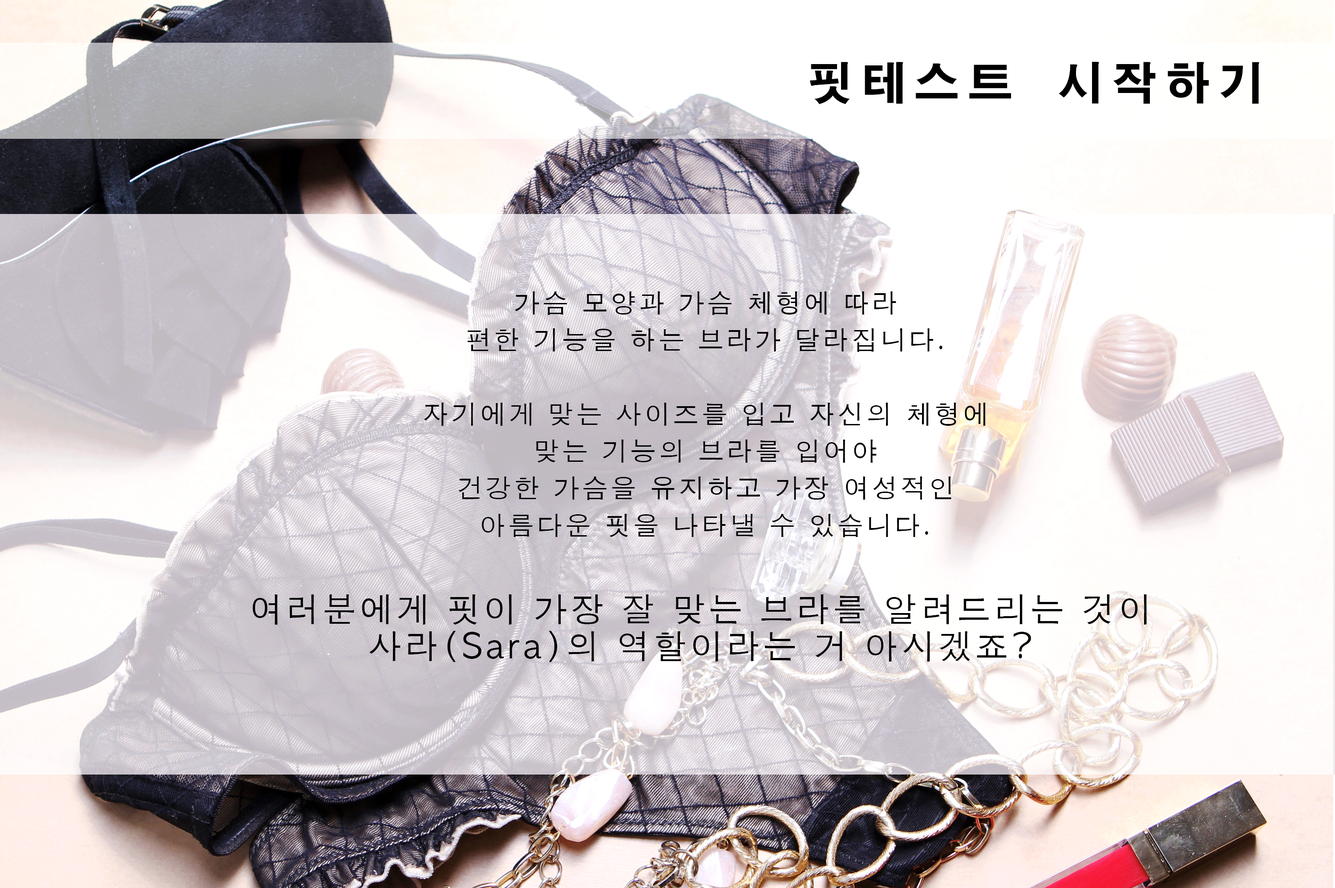
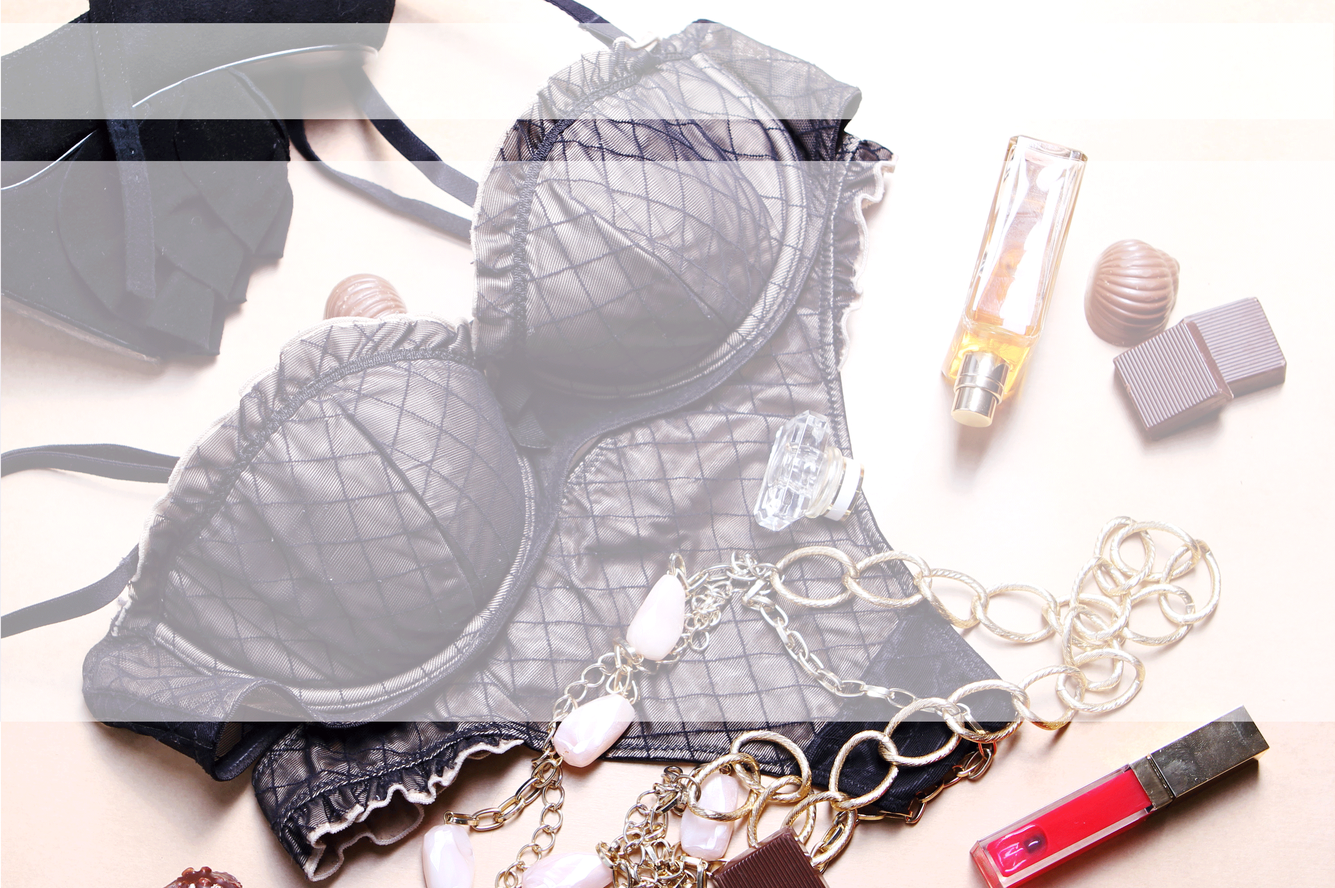
rever

diff --git a/index-backup.html b/index-backup.html
@@ -329,24 +329,41 @@
     </aside>
      <!-- Header -->
       <header id="top" class="header1">
-          <div class="text-vertical-center">
+          <div class="text-vertical-center1">
+             <h3>
+아름다운 몸매를 연출하고 싶으신가요?
+<br>
+<br>
+당신의 사이즈와 체형을 파악하여,<br>
+미스매치의 위험이 없는 브라를 제공하는<br>
+사라스핏(Sara’s Fit) 만의 차별화된 서비스!<br><br>
+
+단순히 몸에 맞는 사이즈를 넘어,<br>
+당신이 가장 편안할 수 있는, <br>
+당신의 핏이 가장 아름다울 수 있는(Fit),<br>
+그로 인해 당신의 “고급스러움”이 돋보일 수 있도록(Luxury) <br>
+아름다운 몸매를 연출해 드립니다.
+             </h3>
+
          </div>
      </header>
+
+    <br>
+
+
      <!-- Header -->
       <header id="top" class="header2">
-          <div class="text-vertical-center">
+          <div class="text-vertical-center1">
+             <h3>
+가슴 모양과 가슴 체형에 따라<br>편한 기능을 하는 브라가 달라집니다.<br><br>
+
+자기에게 맞는 사이즈를 입고<br>자신의 체형에 맞는 기능의 브라를 입어야<br>
+건강한 가슴을 유지하고 가장 여성적인<br>아름다운 핏을 나타낼 수 있습니다. <br><br>
+
+여러분에게 핏이 가장 잘 맞는 브라를 알려드리는 것이 <br>사라(Sara)의 역할이라는 거 아시겠죠?
+             </h3>
          </div>
      </header>
-  <!-- Call to Action -->
-    <aside class="call-to-action bg-primary">
-        <div class="container">
-            <div class="row">
-                <div class="col-lg-12 text-center">
-                    <h3>사라스핏 고객센터: 카카오톡 - mkkimwin</h3>
-                </div>
-            </div>
-        </div>
-    </aside>
 
     <!-- Footer -->
     <footer>

diff --git a/css/stylish-portfolio.css b/css/stylish-portfolio.css
@@ -23,9 +23,17 @@ body {
     vertical-align: bottom;
     font-family: 'Noto Sans KR', sans-serif;
     opacity: 0.8;
-    color: #C33896;
+    color: #000000;
 }
 
+.text-vertical-center1 {
+    display: table-cell;
+    text-align: center;
+    vertical-align: middle;
+    font-family: 'Noto Sans KR', sans-serif;
+    opacity: 0.8;
+    color: #000000;
+}
 
 .text-vertical-center h1 {
     margin: 0;
@@ -190,7 +198,7 @@ hr.small {
     position: relative;
     width: 100%;
     height: 100%;
-    background: url(../img/landingpg1.png) no-repeat center scroll;
+    background: url(../img/landingpg1.png) no-repeat left scroll;
     -webkit-background-size: cover;
     -moz-background-size: cover;
     background-size: cover;
